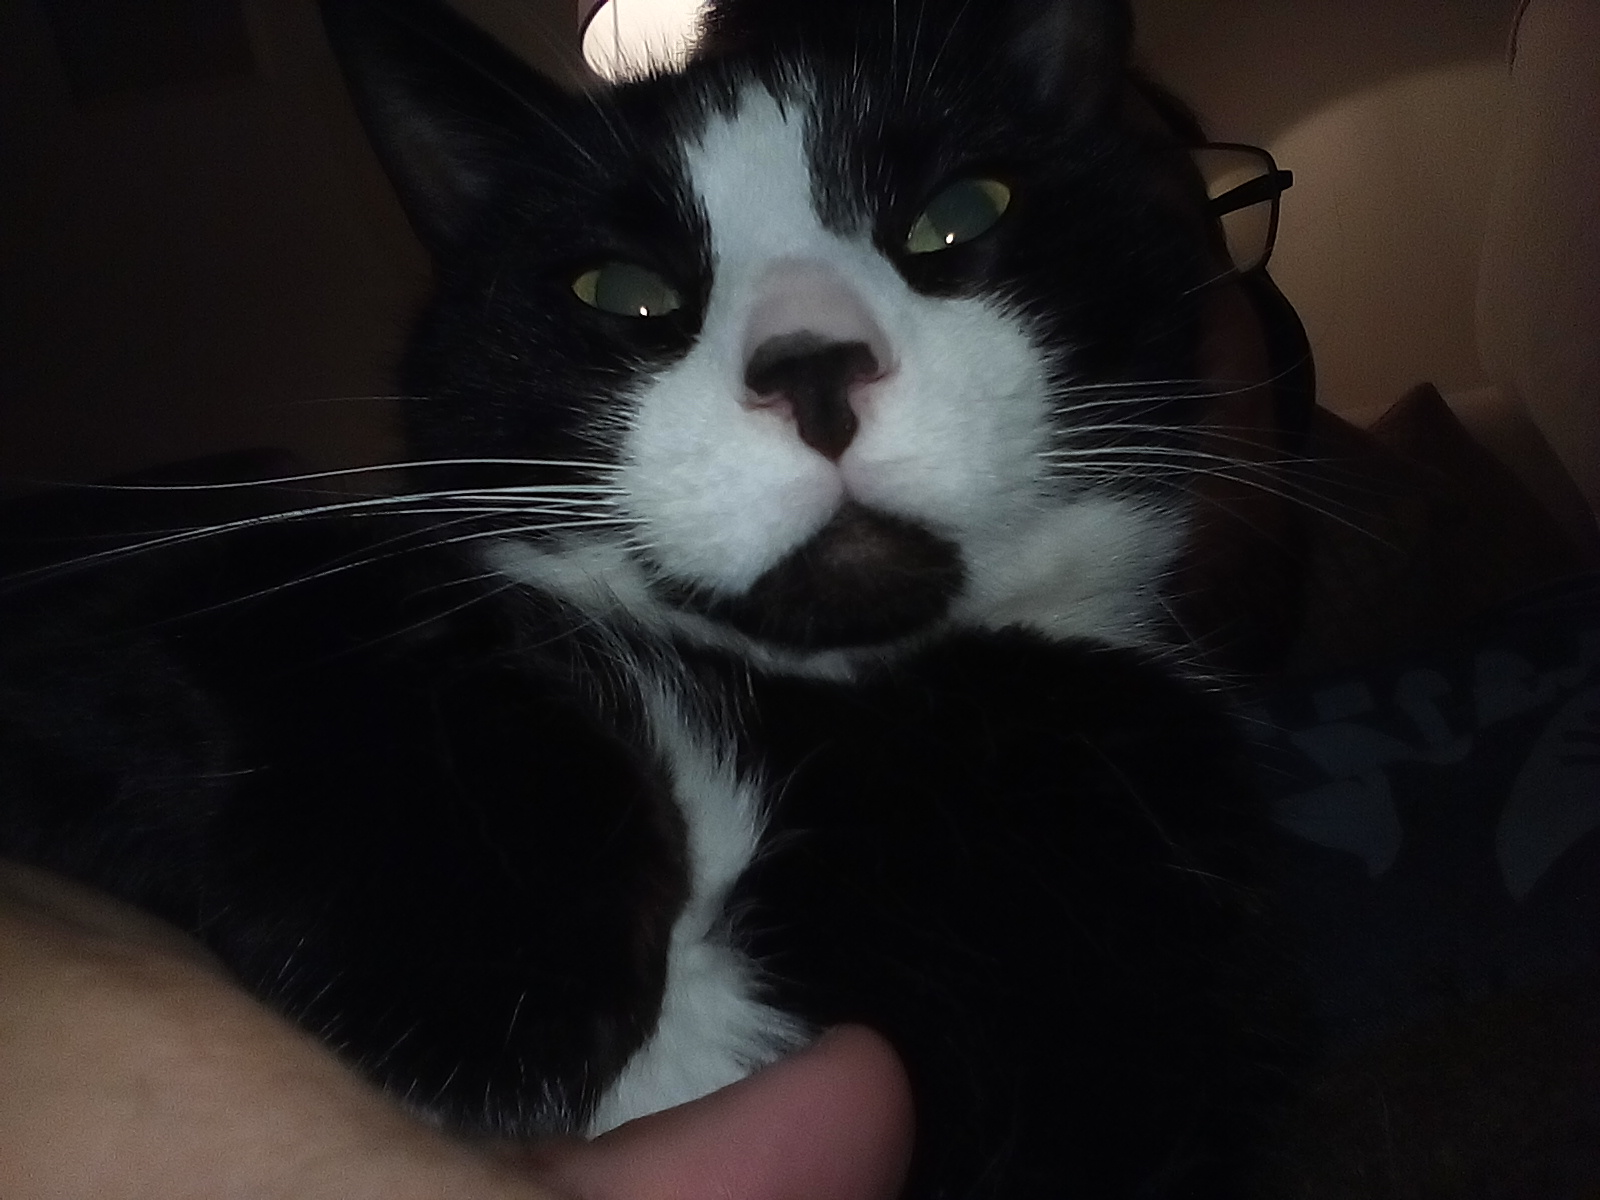
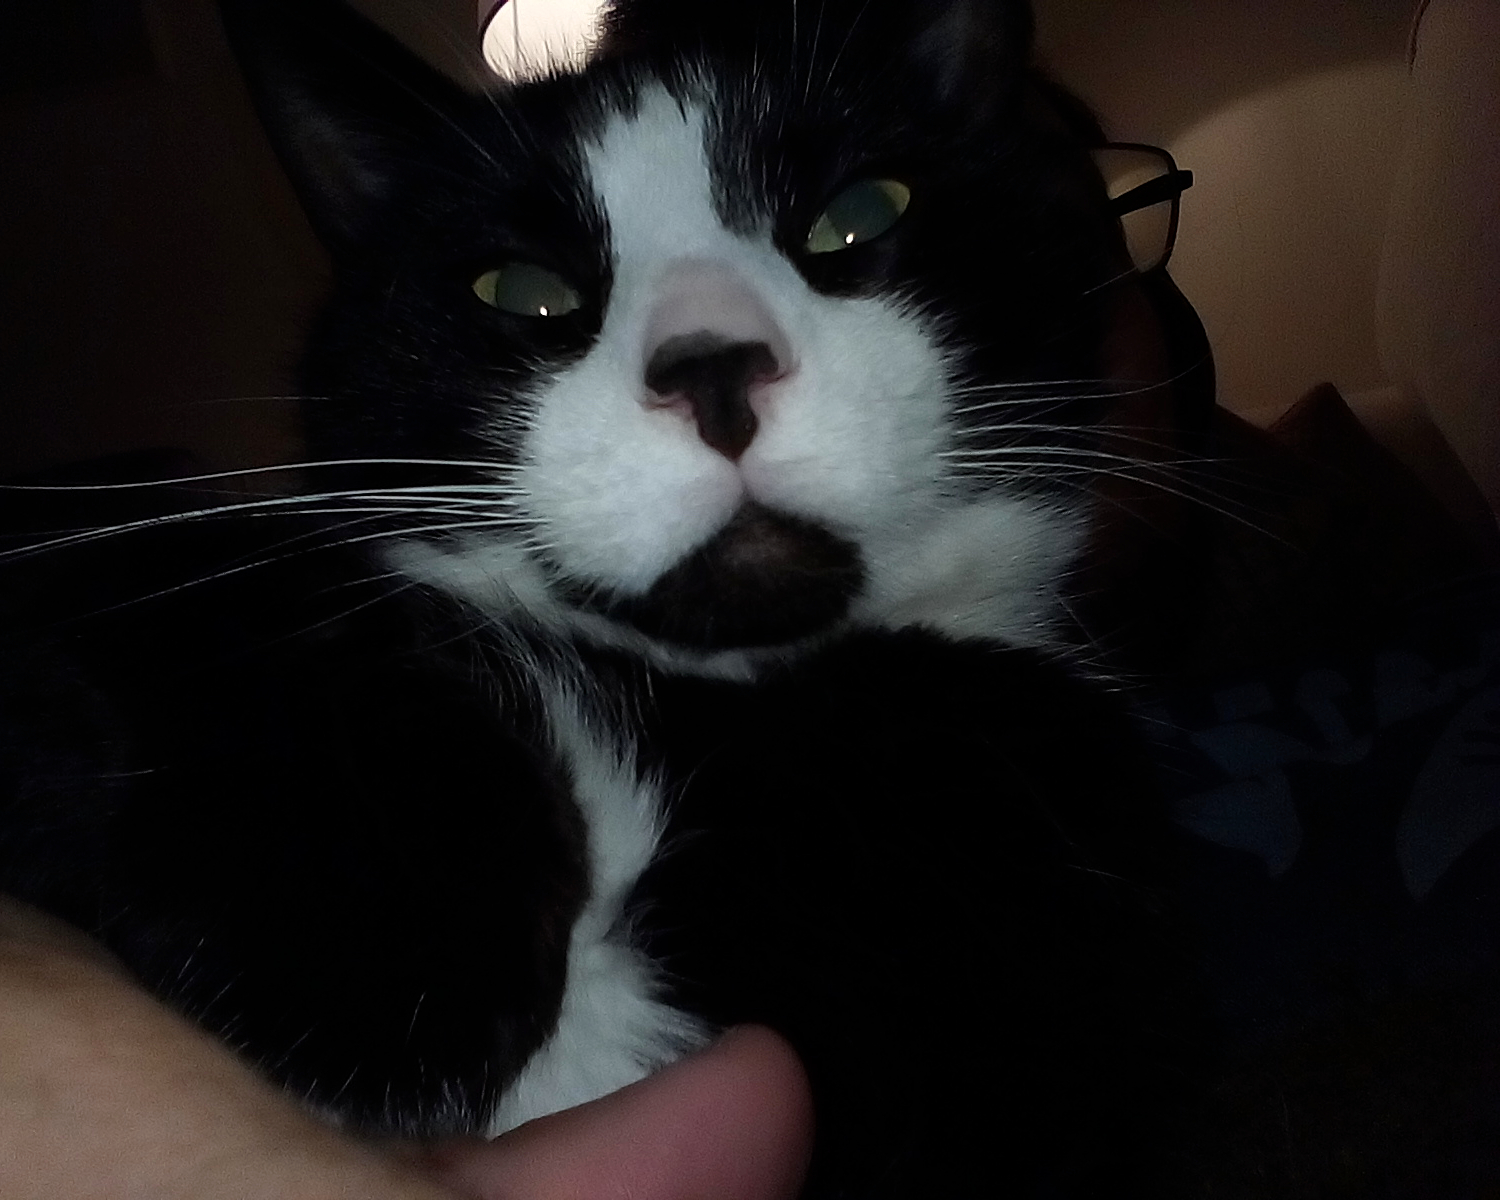
Slight diffenrent ratio on Kitty image. Added div for CatGrid.

diff --git a/CatGrid.html b/CatGrid.html
@@ -29,11 +29,21 @@
   <div class="content">
     <h1> Lots of cats</h1>
     <div class="row" id="CatGrid">
+      <div class="col-lg-6 col-sm-12">
+        <img src="media/cat-2536662_1920.jpg" alt="" class="img-fluid">
+      </div>
 
-      <img src="media/cat-2536662_1920.jpg" alt="" class="img-fluid col-lg-6 col-sm-12">
-      <img src="media/cat-1647775_1920.jpg" alt="" class="img-fluid col-lg-6 col-sm-12">
-      <img src="media/young-calico-cat.jpg" alt="" class="img-fluid col-lg-6 col-sm-12">
-      <img src="media/Kitty.jpg" alt="" class="img-fluid col-lg-6 col-sm-12">
+      <div class="col-lg-6 col-sm-12">
+        <img src="media/cat-1647775_1920.jpg" alt="" class="img-fluid">
+      </div>
+
+      <div class="col-lg-6 col-sm-12">
+        <img src="media/young-calico-cat.jpg" alt="" class="img-fluid">
+      </div>
+
+      <div class="col-lg-6 col-sm-12">
+        <img src="media/Kitty.jpg" alt="" class="img-fluid">
+      </div>
 
     </div>
   </div>
